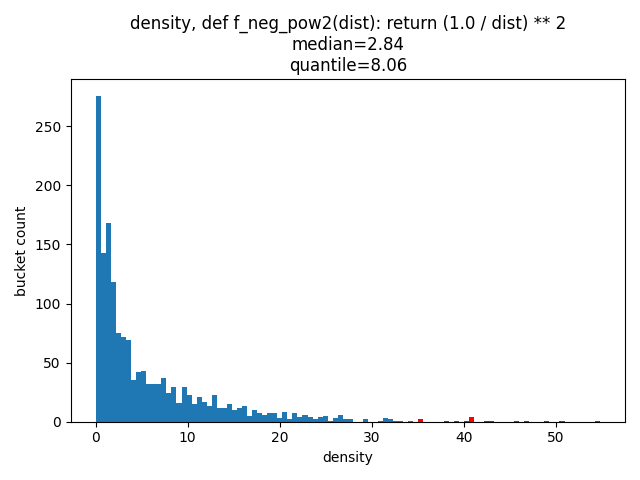
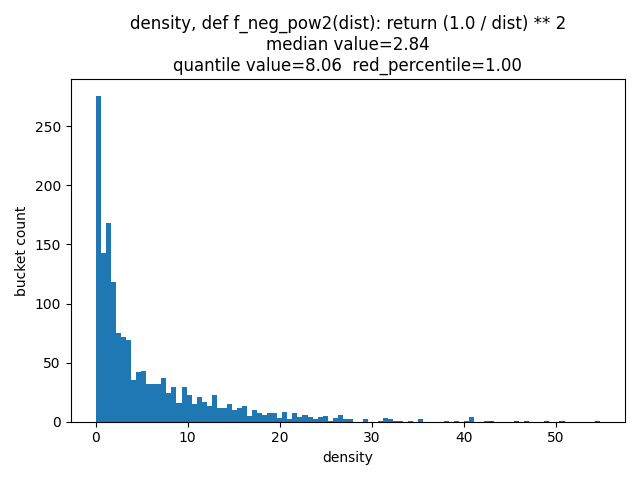
all_hists + seek test

Changed region(s): [[0.25, 0.0625, 0.8125, 0.1562]]

diff --git a/DonorAnalyzer.py b/DonorAnalyzer.py
@@ -161,7 +161,7 @@ def main():
     print(f'filling db took {t2 - t1} sec')
 
 
-def hist_patients(f_id):
+def hist_patients(f_id, ratio):
     t1 = time.time()
     denss_info = []
     clusters = []
@@ -186,19 +186,18 @@ def hist_patients(f_id):
         code = rep.get_proximity_code(f_id)
 
         dens_path = f'distribution/densities/{f_id}.png'
-        ratio = 0.99
         denss = list(map(lambda x: x[0], denss_info))
         top_ratio_infos = sorted(denss_info, key=lambda p: p[0])
         cnt = len(denss)
         for i in range(int(cnt * ratio), cnt):
             infoids.append(top_ratio_infos[i][1])
-        plot_distribution(denss, dens_path, code, 'density', 'density', ratio=ratio)
+        plot_distribution(denss, dens_path, code, 'density', 'density', ratio)
 
         cluster_path = f'distribution/clusters/{f_id}.png'
-        plot_distribution(clusters, cluster_path, code, 'clusters', 'cluster_size', 'green', ratio=ratio)
+        plot_distribution(clusters, cluster_path, code, 'clusters', 'cluster_size', ratio, 'green')
 
         periphery_path = f'distribution/peripheries/{f_id}.png'
-        plot_distribution(peripheries, periphery_path, code, 'peripheries', 'periphery_size', 'orange', ratio=ratio)
+        plot_distribution(peripheries, periphery_path, code, 'peripheries', 'periphery_size', ratio, 'orange')
 
     t2 = time.time()
     print(f'plots took {t2 - t1} sec')
@@ -301,19 +300,65 @@ def measure_chromos(chromo_clusters):
     chromo_marker_acc = chromo_cnt / all_cnt
     print(f'marker acc: {chromo_marker_acc * 100}%')
 
-if __name__ == '__main__':
-    # main()
-    # for i in range(1, max_range_pow + 1):
-    # for i in range(1, 4):
+def all_hists(ratio):
+    #for i in range(1, 4):
+    for i in range(1, max_range_pow + 1):
+        _ = hist_patients(i, ratio=ratio)
 
+
+def seek_test():
+    cool = cooler.Cooler('healthy_hics/Rao2014-IMR90-MboI-allreps-filtered.500kb.cool')
+    resolution = cool.info['bin-size']
+    with DonorRepository() as rep:
+        cnt = 0
+        no_chromo_cnt = 0
+        no_data_cnt = 0
+        chromo_cnt = 0
+        donors = rep.unique_prostate_donors()
+
+        all_patients = 0
+        ok_cnt = 0
+        for donor in donors:
+            all_patients += 1
+            ok = True
+            for i in range(1, 22):
+                cnt += 1
+                seek_donor, seek_chr, seek_low, seek_up = rep.get_chromo(donor, i)
+
+                if seek_low == -2:
+                    print('No Chromo')
+                    no_chromo_cnt += 1
+                    continue
+
+                if seek_low == -1:
+                    print('No Data')
+                    no_data_cnt += 1
+                    continue
+
+                chromo_cnt += 1
+                ok = False
+            if ok:
+                ok_cnt += 1
+
+    print(f'cnt={cnt}, no_chromo={no_chromo_cnt}, no_data={no_data_cnt}, chromo={chromo_cnt}')
+    print(f'all_patients={all_patients}, ok_cnt={ok_cnt}')
+
+
+def measure_test():
     i = 3
-    infoids = hist_patients(i)
+    infoids = hist_patients(i, ratio=0.99)
     #chromos = find_chromos(infoids)
     chromo_clusters = find_cromo_clusters(infoids)
     measure_chromos(chromo_clusters)
+    #compare_chromos
 
-    # with DonorRepository() as rep:
-    #     print(rep.get_chromo('CPCG0201', 16))
 
-    # f_id_arr = [2]
-    # all_info_donors_plots([1])
+if __name__ == '__main__':
+    # main()
+
+
+    all_hists(0.9965) #0.9965: -1,  0.975: -2
+
+    # seek_test()
+
+    # measure_test()

diff --git a/DenseUtils.py b/DenseUtils.py
@@ -40,7 +40,7 @@ def find_first_predicate_index(arr, predicate):
     return -1
 
 
-def plot_distribution(arr, store_path, function_code, label, xlabel, color='null', ratio=0.975):
+def plot_distribution(arr, store_path, function_code, label, xlabel, ratio, color='null'):
     rcParams.update({'figure.autolayout': True})
     buckets_cnt = 100
     if color != 'null':
@@ -56,8 +56,9 @@ def plot_distribution(arr, store_path, function_code, label, xlabel, color='null
     dens_med = statistics.median(arr)
     dens_quantile = np.quantile(arr, 0.75)
     plt.title(f'{label}, {function_code}' +
-              'median=%0.2f\n' % dens_med +
-              'quantile=%0.2f' % dens_quantile)
+              'median value=%0.2f\n' % dens_med +
+              'quantile value=%0.2f  ' % dens_quantile +
+              'red_percentile=%0.2f' % ratio)
     create_path_if_not_exist(store_path)
     plt.xlabel(xlabel)
     plt.ylabel('bucket count')
